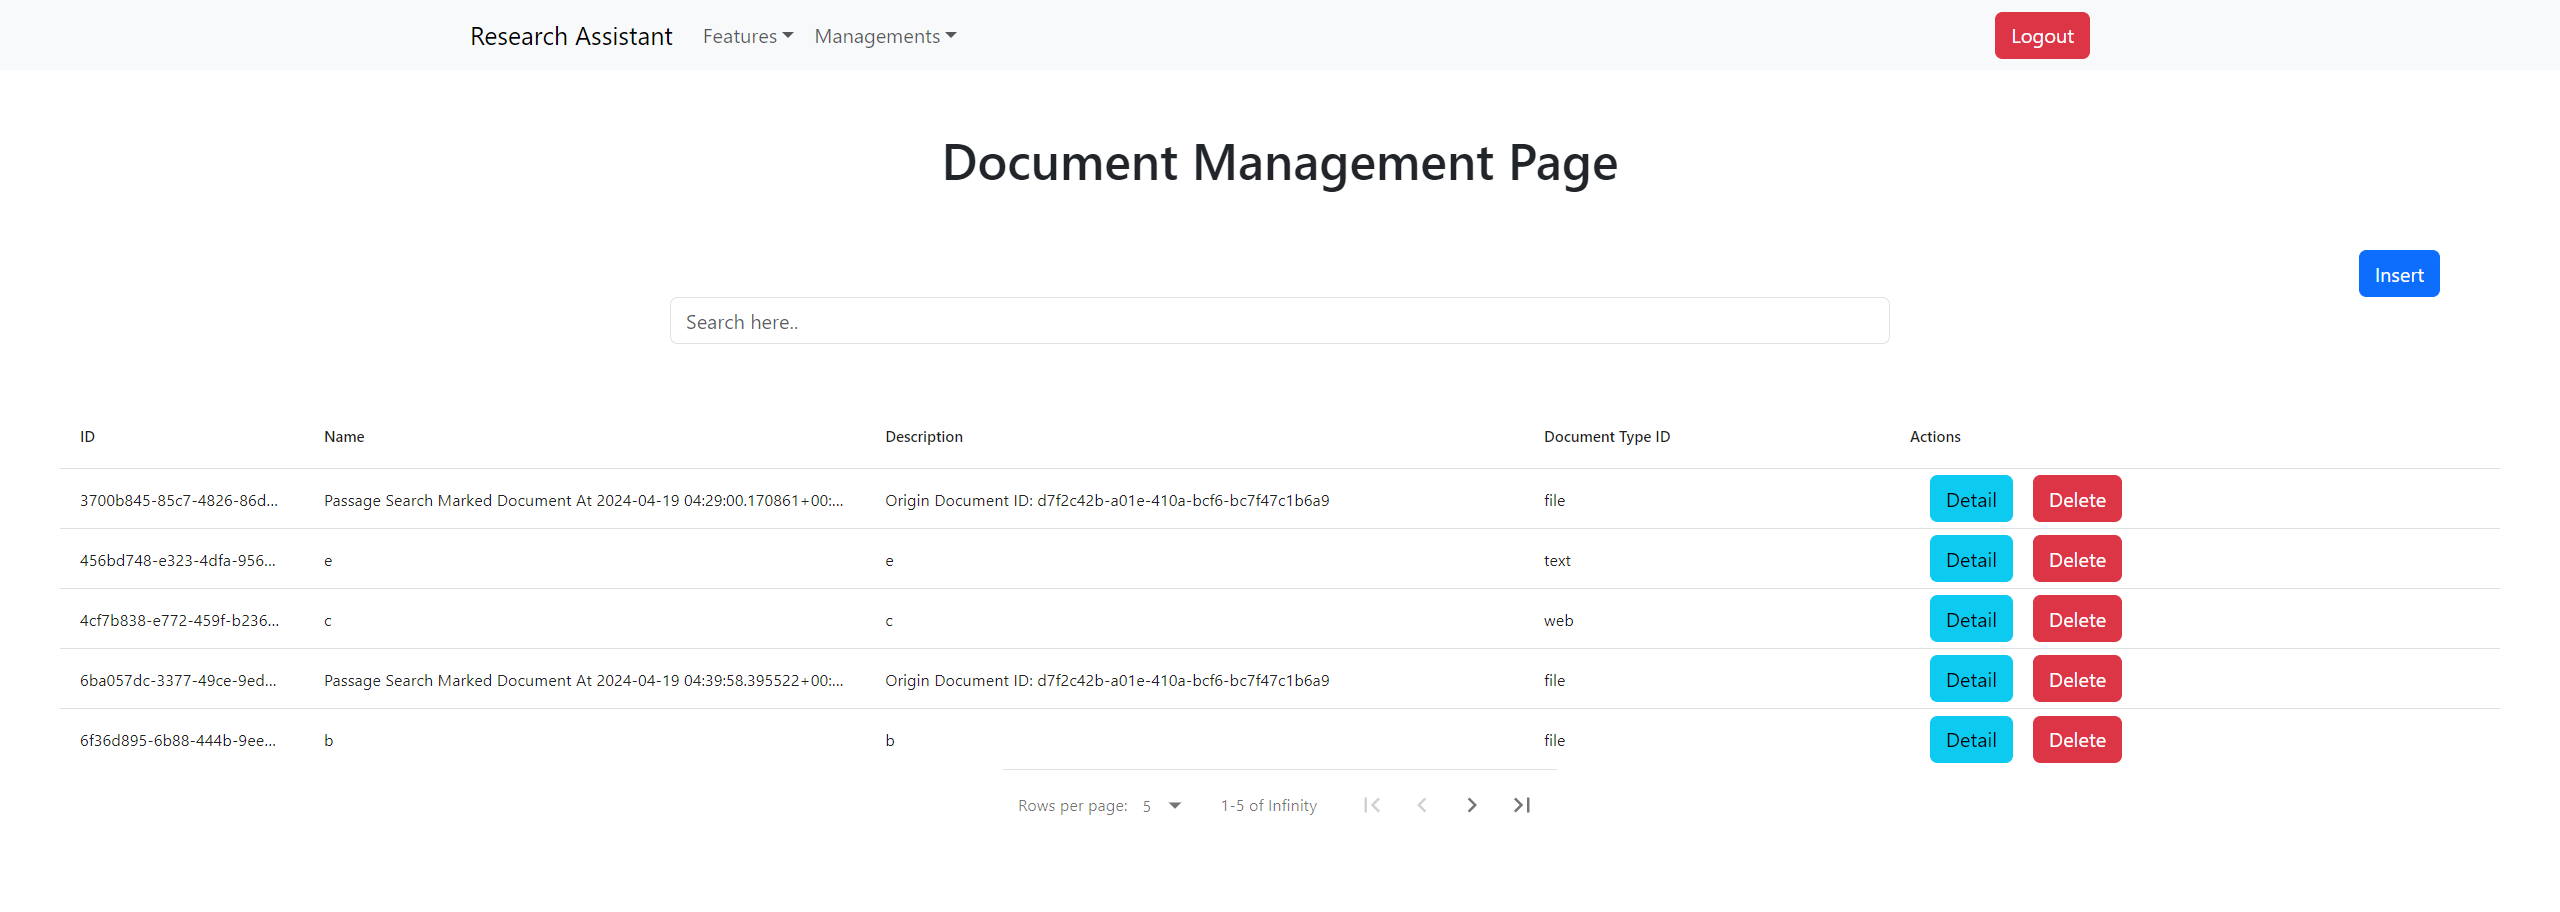
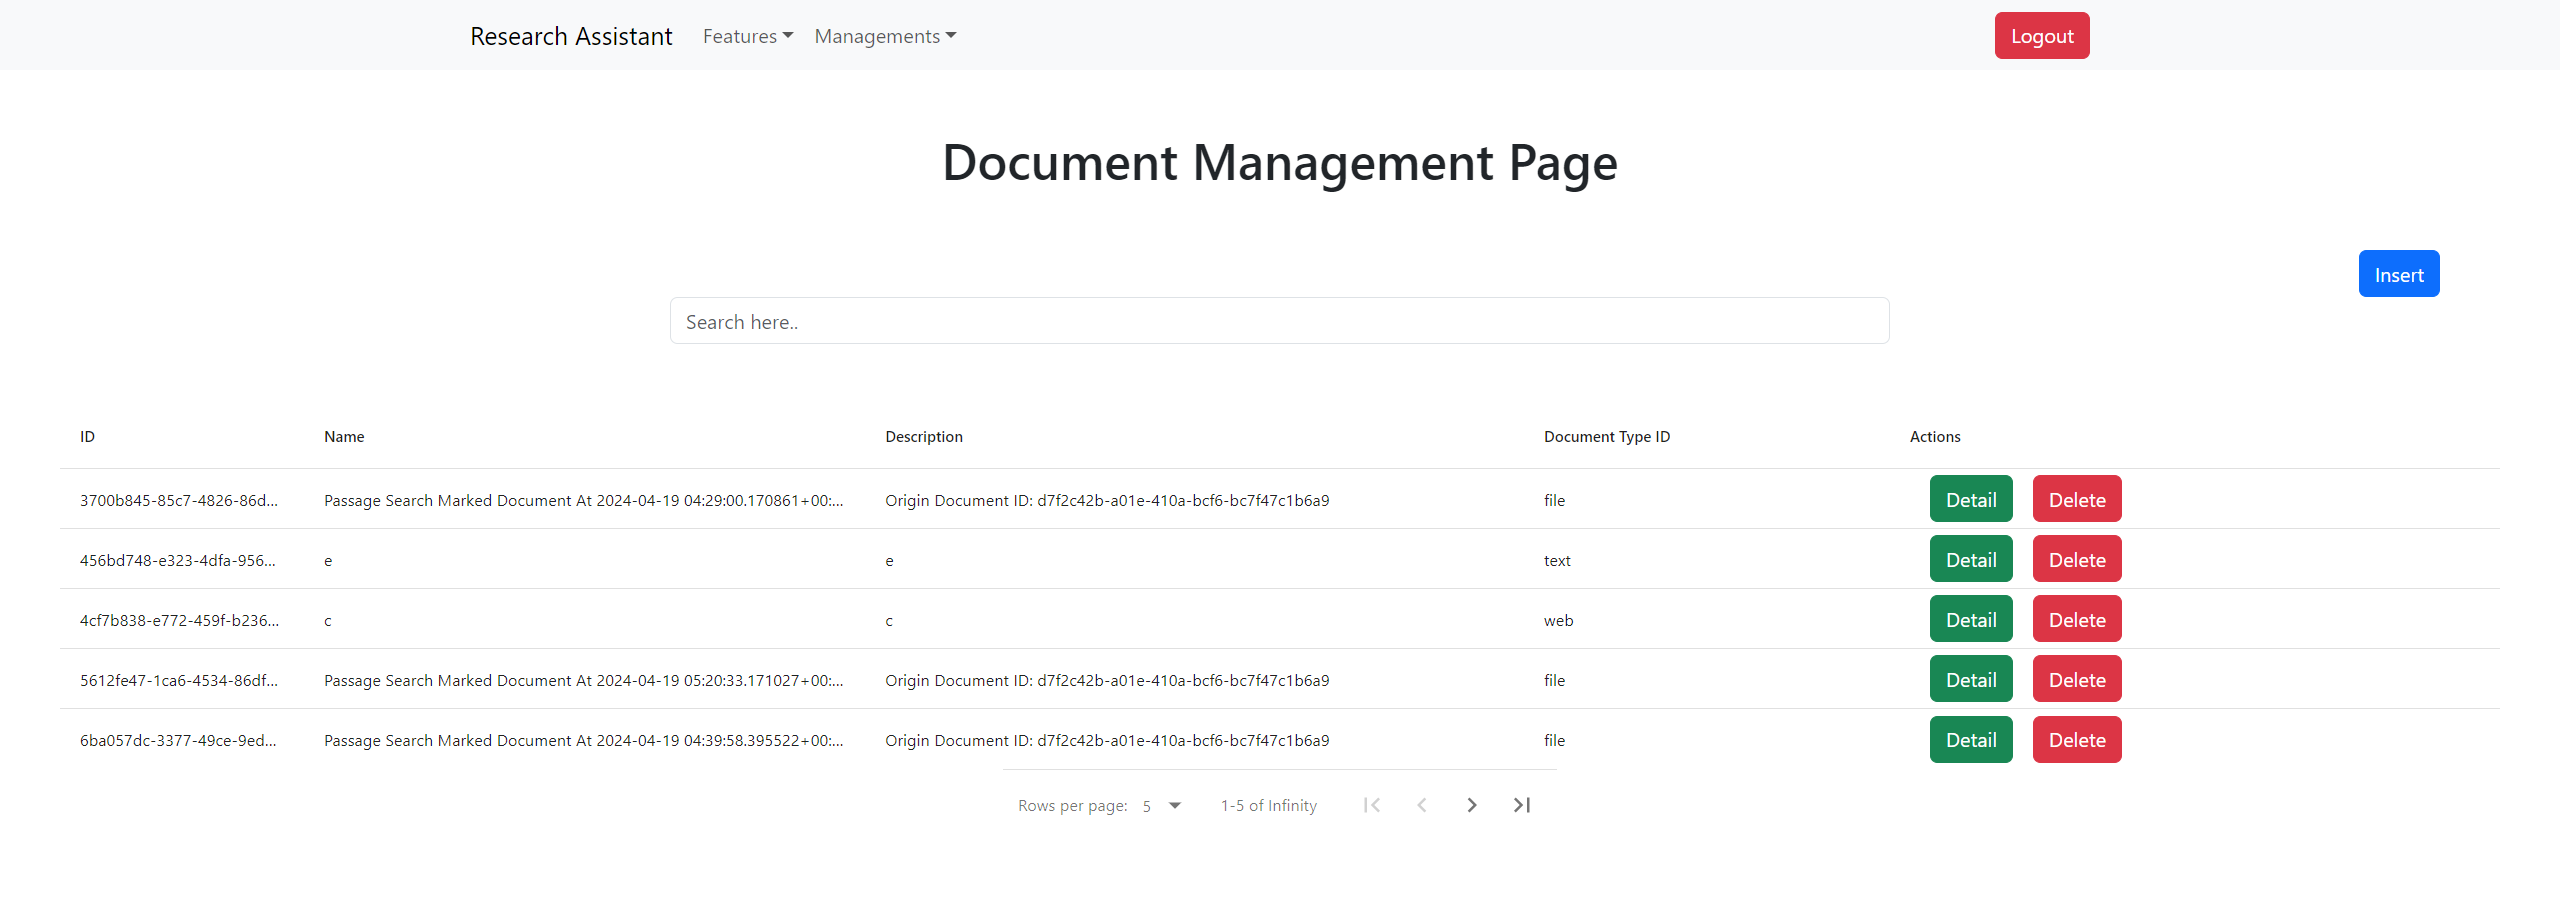
Update documentation and fix bugs.

diff --git a/src/components/features/SelectModalComponent.tsx b/src/components/features/SelectModalComponent.tsx
@@ -227,12 +227,36 @@ export default function SelectModalComponent (): React.JSX.Element {
       search: ''
     },
     onSubmit: (values) => {
-      const filteredDocuments: Document[] = selectedDocuments!.filter((document: Document) => {
-        return JSON.stringify(document).toLowerCase().includes(values.search.toLowerCase())
-      })
-      dispatch(domainSlice.actions.setDocumentDomain({
-        documents: filteredDocuments
+      dispatch(processSlice.actions.set({
+        isLoading: true
       }))
+      documentService
+        .search({
+          body: {
+            id: values.search,
+            name: values.search,
+            description: values.search,
+            documentTypeId: values.search,
+            accountId: null
+          },
+          size: pageSize
+        })
+        .then((response) => {
+          const content: Content<Document[]> = response.data
+          dispatch(domainSlice.actions.setDocumentDomain({
+            documents: content.data!
+          }))
+        })
+        .catch((error) => {
+          console.error(error)
+          const content: Content<null> = error.response.data
+          alert(content.message)
+        })
+        .finally(() => {
+          dispatch(processSlice.actions.set({
+            isLoading: false
+          }))
+        })
     }
   })
 

diff --git a/src/pages/features/PassageSearchPage.tsx b/src/pages/features/PassageSearchPage.tsx
@@ -483,7 +483,7 @@ export default function PassageSearchPage (): React.JSX.Element {
         </div>
         <hr className="w-75 mb-3"/>
         <div className="d-flex flex-column justify-content-center align-items-center w-75">
-          <h3>Highlighted Documents</h3>
+          <h3 className="mb-3">Marked Documents</h3>
           {
             passageSearchProcessResponse !== undefined
               ? passageSearchProcessResponse.finalDocumentUrls!.map((finalDocumentUrl, index) => {
@@ -493,10 +493,10 @@ export default function PassageSearchPage (): React.JSX.Element {
                         key={index}
                     >
                         <button
-                            className="btn btn-primary w-100 rounded-0"
+                            className="btn btn-success w-100 rounded-0"
                           onClick={() => { handleClickDocumentId(formik.values.inputSetting!.documentIds![index]) }}
                         >
-                          {formik.values.inputSetting!.documentIds![index]}
+                          Detail
                         </button>
                       <embed
                           style={{

diff --git a/src/components/navigation_bars/AuthenticatedNavBarComponent.tsx b/src/components/navigation_bars/AuthenticatedNavBarComponent.tsx
@@ -54,7 +54,7 @@ export default function AuthenticatedNavBarComponent (): React.JSX.Element {
                             <NavDropdown.Item href="/managements/documents">Documents</NavDropdown.Item>
                         </NavDropdown>
                     </Nav>
-                    <button className="btn btn-danger" onClick={handleClickLogout}>
+                    <button className="btn btn-danger" onClick={handleClickLogout} disabled={isLoading}>
                     {
                         isLoading!
                           ? <div className="spinner-border text-light" role="status">

diff --git a/src/pages/managements/DocumentManagementPage.tsx b/src/pages/managements/DocumentManagementPage.tsx
@@ -146,7 +146,7 @@ export default function DocumentManagementPage (): React.JSX.Element {
                 <>
                     <button
                         id={row.id}
-                        className="btn btn-info mx-3"
+                        className="btn btn-success mx-3"
                         onClick={() => { handleClickDetail(row) }}
                         disabled={isLoading}
                     >
